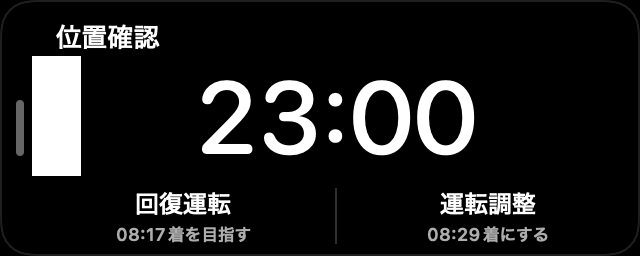
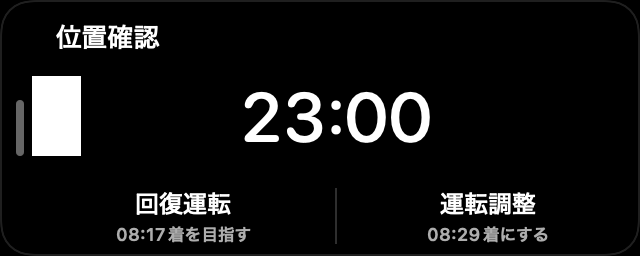
Mac PiP: compact title and large digits in normal ride
Use a fixed expanded classic layout (14pt title, digits above the progress
band) when the bottom action row is hidden. Animate layout and digit scale
across normal, reestimate, and pause modes with animatable font sizes.
Replace progress-row GeometryReader with fixed contentColumnWidth. Add
pip-normal-ride screenshot and refresh band shots.

Changed region(s): [[0.3125, 0.3125, 0.75, 0.625], [0.0312, 0.5938, 0.125, 0.6875], [0.0312, 0.2188, 0.125, 0.3125]]

diff --git a/TodoTrainCompanion/CompanionRideOverlayView.swift b/TodoTrainCompanion/CompanionRideOverlayView.swift
@@ -54,12 +54,68 @@ struct CompanionRideOverlayView: View {
     private static let bottomBandHeight: CGFloat = 40
     private static let reestimateHeadingHeight: CGFloat = 28
     private static let pauseHeadingHeight: CGFloat = 36
+    private static let classicTitleBandHeight: CGFloat = 26
+    private static let handleColumnWidth: CGFloat = 8 + 4 + 4
+    private static let contentColumnWidth =
+        CGFloat(RideOverlayGeometry.cardSize.width) - handleColumnWidth
     private static let reestimateInstrumentHeight =
         CGFloat(RideOverlayGeometry.cardSize.height) - reestimateHeadingHeight - bottomBandHeight
     private static let pauseInstrumentHeight =
         CGFloat(RideOverlayGeometry.cardSize.height) - pauseHeadingHeight - bottomBandHeight
+    private static let classicExpandedDigitHeight =
+        CGFloat(RideOverlayGeometry.cardSize.height) - classicTitleBandHeight - bottomBandHeight
+
+    private enum PipColumnLayout: Equatable {
+        case gap
+        case pause
+        case reestimate(PipReestimateBand)
+        case classicExpanded
+        case classicCompact
+    }
 
     private var presentation: RideOverlayPresentation { model.presentation }
+
+    private var pipColumnLayout: PipColumnLayout {
+        if presentation.showsArrivalGap { return .gap }
+        if presentation.pausePrompt != nil { return .pause }
+        if let band = activeBand { return .reestimate(band) }
+        if usesClassicExpandedLayout { return .classicExpanded }
+        return .classicCompact
+    }
+
+    private var rideDigitAreaHeight: CGFloat {
+        switch pipColumnLayout {
+        case .classicExpanded:
+            Self.classicExpandedDigitHeight
+        case .classicCompact:
+            Self.bottomBandHeight
+        case .reestimate:
+            Self.reestimateInstrumentHeight
+        case .pause:
+            Self.pauseInstrumentHeight
+        case .gap:
+            0
+        }
+    }
+
+    private var classicTitlePointSize: CGFloat {
+        pipColumnLayout == .classicExpanded ? 14 : 28
+    }
+
+    private var classicTitleFrameHeight: CGFloat {
+        pipColumnLayout == .classicExpanded ? Self.classicTitleBandHeight : 44
+    }
+
+    private var usesClassicExpandedLayout: Bool {
+        presentation.cabinPrompt == nil
+            && model.reestimateUndoUntil == nil
+            && !showsCabinActions
+            && !showsAction
+    }
+
+    private var pipMotionAnimation: Animation? {
+        reduceMotion ? nil : .easeInOut(duration: 0.25)
+    }
 
     var body: some View {
         pauseAccess(cabinAccess(framed))
@@ -154,17 +210,23 @@ struct CompanionRideOverlayView: View {
         HStack(spacing: 0) {
             handle
             VStack(alignment: .leading, spacing: 0) {
-            if presentation.showsArrivalGap {
-                gapColumn
-            } else if presentation.pausePrompt != nil {
-                pausePromptColumn
-            } else if let band = activeBand {
-                reestimateColumn(band)
-            } else {
-                classicColumn
-            }
+                Group {
+                    switch pipColumnLayout {
+                    case .gap:
+                        gapColumn
+                    case .pause:
+                        pausePromptColumn
+                    case .reestimate(let band):
+                        reestimateColumn(band)
+                    case .classicExpanded:
+                        classicExpandedColumn
+                    case .classicCompact:
+                        classicCompactColumn
+                    }
+                }
             }
             .frame(maxWidth: .infinity, maxHeight: .infinity, alignment: .topLeading)
+            .animation(pipMotionAnimation, value: pipColumnLayout)
         }
         .frame(maxWidth: .infinity, maxHeight: .infinity)
         .background(Color.black)
@@ -255,17 +317,41 @@ struct CompanionRideOverlayView: View {
         return dimmed ? base.opacity(0.4) : base
     }
 
-    private var classicColumn: some View {
-        VStack(alignment: .leading, spacing: 4) {
-            Text(presentation.title)
-                .font(.system(size: 28, weight: .medium, design: .rounded))
-                .foregroundStyle(.white)
-                .lineLimit(1)
-                .minimumScaleFactor(0.45)
-                .padding(.horizontal, 12)
-                .padding(.top, 10)
-                .frame(maxWidth: .infinity, alignment: .leading)
+    private var classicRideTitle: some View {
+        Text(presentation.title)
+            .modifier(PipAnimatableTitleFont(size: classicTitlePointSize, weight: .medium))
+            .foregroundStyle(.white)
+            .lineLimit(1)
+            .truncationMode(.tail)
+            .minimumScaleFactor(pipColumnLayout == .classicExpanded ? 1 : 0.45)
+            .padding(.horizontal, 12)
+            .padding(.top, pipColumnLayout == .classicExpanded ? 8 : 10)
+            .frame(maxWidth: .infinity, alignment: .leading)
+            .frame(height: classicTitleFrameHeight, alignment: .leading)
+            .animation(pipMotionAnimation, value: classicTitlePointSize)
+    }
 
+    private var classicExpandedColumn: some View {
+        VStack(alignment: .leading, spacing: 0) {
+            classicRideTitle
+            classicFailureLine
+            VStack(spacing: 0) {
+                pipDigitLabel(
+                    presentation.remainingLabel,
+                    color: RideOverlayPalette.onTrack,
+                    areaHeight: rideDigitAreaHeight
+                )
+                .frame(height: rideDigitAreaHeight)
+                progressFillBand(height: Self.bottomBandHeight)
+            }
+            .frame(maxWidth: .infinity, maxHeight: .infinity, alignment: .bottom)
+        }
+        .frame(maxWidth: .infinity, maxHeight: .infinity, alignment: .topLeading)
+    }
+
+    private var classicCompactColumn: some View {
+        VStack(alignment: .leading, spacing: 4) {
+            classicRideTitle
             if let line = presentation.failureLine {
                 Text(line)
                     .font(.caption)
@@ -285,11 +371,23 @@ struct CompanionRideOverlayView: View {
             } else {
                 scheduleSlot
             }
-
             Spacer(minLength: 0)
             bottomRow
         }
         .frame(maxWidth: .infinity, maxHeight: .infinity, alignment: .topLeading)
+    }
+
+    @ViewBuilder
+    private var classicFailureLine: some View {
+        if let line = presentation.failureLine {
+            Text(line)
+                .font(.caption)
+                .foregroundStyle(RideOverlayPalette.overtime)
+                .lineLimit(2)
+                .minimumScaleFactor(0.8)
+                .padding(.horizontal, 12)
+                .frame(maxWidth: .infinity, alignment: .leading)
+        }
     }
 
     /// One line, always the same height, so a schedule appearing does not move the title or the bar.
@@ -399,7 +497,7 @@ struct CompanionRideOverlayView: View {
             .padding(.top, 8)
             .frame(height: 36, alignment: .center)
 
-            nudgeInstrument(areaHeight: Self.pauseInstrumentHeight)
+            nudgeInstrument(areaHeight: rideDigitAreaHeight)
                 .frame(maxWidth: .infinity, maxHeight: .infinity)
 
             equalChoiceRow([PauseInputCopy.resume, PauseInputCopy.keepPaused])
@@ -424,7 +522,7 @@ struct CompanionRideOverlayView: View {
                 .frame(maxWidth: .infinity, alignment: .leading)
                 .frame(height: 28, alignment: .center)
 
-            nudgeInstrument(areaHeight: Self.reestimateInstrumentHeight)
+            nudgeInstrument(areaHeight: rideDigitAreaHeight)
                 .frame(maxWidth: .infinity, maxHeight: .infinity)
 
             if let line = presentation.failureLine ?? (presentation.isSending ? presentation.statusLine : nil) {
@@ -640,7 +738,7 @@ struct CompanionRideOverlayView: View {
             if model.reestimateUndoUntil != nil {
                 undoRow
             } else {
-                progressRow(digitAreaHeight: Self.bottomBandHeight)
+                progressRow(digitAreaHeight: rideDigitAreaHeight)
                     .opacity(showsCabinActions || showsAction ? 0 : 1)
                 if showsCabinActions {
                     cabinActionRow
@@ -669,38 +767,53 @@ struct CompanionRideOverlayView: View {
             && (presentation.canPause || presentation.canResume)
     }
 
-    private func progressRow(digitAreaHeight: CGFloat) -> some View {
-        GeometryReader { geo in
-            let fillWidth = CGFloat(
-                RideOverlayGeometry.fillLength(
-                    progress: presentation.progress,
-                    total: geo.size.width
-                )
+    private var progressFillWidth: CGFloat {
+        CGFloat(
+            RideOverlayGeometry.fillLength(
+                progress: presentation.progress,
+                total: Self.contentColumnWidth
             )
-            ZStack(alignment: .leading) {
-                Color.black
-                HStack(spacing: 0) {
-                    RideOverlayPalette.fill(for: presentation)
-                        .frame(width: fillWidth)
-                    Spacer(minLength: 0)
-                }
-                occupancyProgressMarks(width: geo.size.width, height: geo.size.height)
-                remainingDigits(RideOverlayPalette.onTrack, areaHeight: digitAreaHeight)
-                remainingDigits(RideOverlayPalette.onFill(for: presentation), areaHeight: digitAreaHeight)
-                    .mask {
-                        HStack(spacing: 0) {
-                            Color.white.frame(width: fillWidth)
-                            Color.clear
-                        }
-                    }
+        )
+    }
+
+    private func progressFillBand(height: CGFloat) -> some View {
+        let fillWidth = progressFillWidth
+        return ZStack(alignment: .leading) {
+            Color.black
+            HStack(spacing: 0) {
+                RideOverlayPalette.fill(for: presentation)
+                    .frame(width: fillWidth)
+                Spacer(minLength: 0)
             }
-            .frame(width: geo.size.width, height: geo.size.height)
+            occupancyProgressMarks(width: Self.contentColumnWidth, height: height)
         }
+        .frame(maxWidth: .infinity)
+        .frame(height: height)
         .clipped()
     }
 
-    private func pipDigitFontSize(forAreaHeight areaHeight: CGFloat) -> CGFloat {
-        max(11, areaHeight * 0.9)
+    private func progressRow(digitAreaHeight: CGFloat) -> some View {
+        let fillWidth = progressFillWidth
+        return ZStack(alignment: .leading) {
+            Color.black
+            HStack(spacing: 0) {
+                RideOverlayPalette.fill(for: presentation)
+                    .frame(width: fillWidth)
+                Spacer(minLength: 0)
+            }
+            occupancyProgressMarks(width: Self.contentColumnWidth, height: Self.bottomBandHeight)
+            remainingDigits(RideOverlayPalette.onTrack, areaHeight: digitAreaHeight)
+            remainingDigits(RideOverlayPalette.onFill(for: presentation), areaHeight: digitAreaHeight)
+                .mask {
+                    HStack(spacing: 0) {
+                        Color.white.frame(width: fillWidth)
+                        Color.clear
+                    }
+                }
+        }
+        .frame(maxWidth: .infinity)
+        .frame(height: Self.bottomBandHeight)
+        .clipped()
     }
 
     private func pipDigitLabel(
@@ -709,19 +822,12 @@ struct CompanionRideOverlayView: View {
         areaHeight: CGFloat,
         weight: Font.Weight = .medium
     ) -> some View {
-        Text(label)
-            .font(
-                .system(
-                    size: pipDigitFontSize(forAreaHeight: areaHeight),
-                    weight: weight,
-                    design: .rounded
-                )
-                .monospacedDigit()
-            )
-            .foregroundStyle(color)
-            .lineLimit(1)
-            .minimumScaleFactor(0.35)
-            .frame(maxWidth: .infinity, maxHeight: .infinity)
+        PipAnimatableDigitArea(
+            areaHeight: areaHeight,
+            label: label,
+            color: color,
+            weight: weight
+        )
     }
 
     private func remainingDigits(_ color: Color, areaHeight: CGFloat) -> some View {
@@ -909,6 +1015,60 @@ struct CompanionRideOverlayView: View {
     private func primaryAction() {
         if presentation.isSending { return }
         onToggleHold()
+    }
+}
+
+private struct PipAnimatableDigitArea: View, Animatable {
+    var areaHeight: CGFloat
+    let label: String
+    let color: Color
+    let weight: Font.Weight
+
+    var animatableData: CGFloat {
+        get { areaHeight }
+        set { areaHeight = newValue }
+    }
+
+    private var fontSize: CGFloat {
+        max(11, areaHeight * 0.9)
+    }
+
+    var body: some View {
+        Text(label)
+            .modifier(PipAnimatableDigitFont(size: fontSize, weight: weight))
+            .contentTransition(.numericText())
+            .foregroundStyle(color)
+            .lineLimit(1)
+            .minimumScaleFactor(0.35)
+            .frame(maxWidth: .infinity, maxHeight: .infinity)
+    }
+}
+
+private struct PipAnimatableDigitFont: AnimatableModifier {
+    var size: CGFloat
+    var weight: Font.Weight
+
+    var animatableData: CGFloat {
+        get { size }
+        set { size = newValue }
+    }
+
+    func body(content: Content) -> some View {
+        content.font(.system(size: size, weight: weight, design: .rounded).monospacedDigit())
+    }
+}
+
+private struct PipAnimatableTitleFont: AnimatableModifier {
+    var size: CGFloat
+    var weight: Font.Weight
+
+    var animatableData: CGFloat {
+        get { size }
+        set { size = newValue }
+    }
+
+    func body(content: Content) -> some View {
+        content.font(.system(size: size, weight: weight, design: .rounded))
     }
 }
 

diff --git a/TodoTrainCompanionTests/MacPipReestimateTests.swift b/TodoTrainCompanionTests/MacPipReestimateTests.swift
@@ -139,14 +139,14 @@ struct MacPipReestimateTests {
     @Test func rendersThreeBands() throws {
         let scale: CGFloat = 2
         let card = RideOverlayGeometry.cardSize
-        let bands: [(String, PipReestimateBand)] = [
-            ("pip-band-answers", .answers),
-            ("pip-band-progress", .progress),
-            ("pip-band-declare", .declare),
+        let shots: [(String, AnyView)] = [
+            ("pip-normal-ride", AnyView(ridePreview(rideSnap(title: "原稿")))),
+            ("pip-band-answers", AnyView(rideReestimatePreview(.answers))),
+            ("pip-band-progress", AnyView(rideReestimatePreview(.progress))),
+            ("pip-band-declare", AnyView(rideReestimatePreview(.declare, progress: 0.5))),
         ]
-        for (name, band) in bands {
-            let progress = band == .declare ? 0.5 : nil
-            let renderer = ImageRenderer(content: rideReestimatePreview(band, progress: progress))
+        for (name, content) in shots {
+            let renderer = ImageRenderer(content: content)
             renderer.scale = scale
             renderer.isOpaque = true
             let image = try #require(renderer.nsImage)
